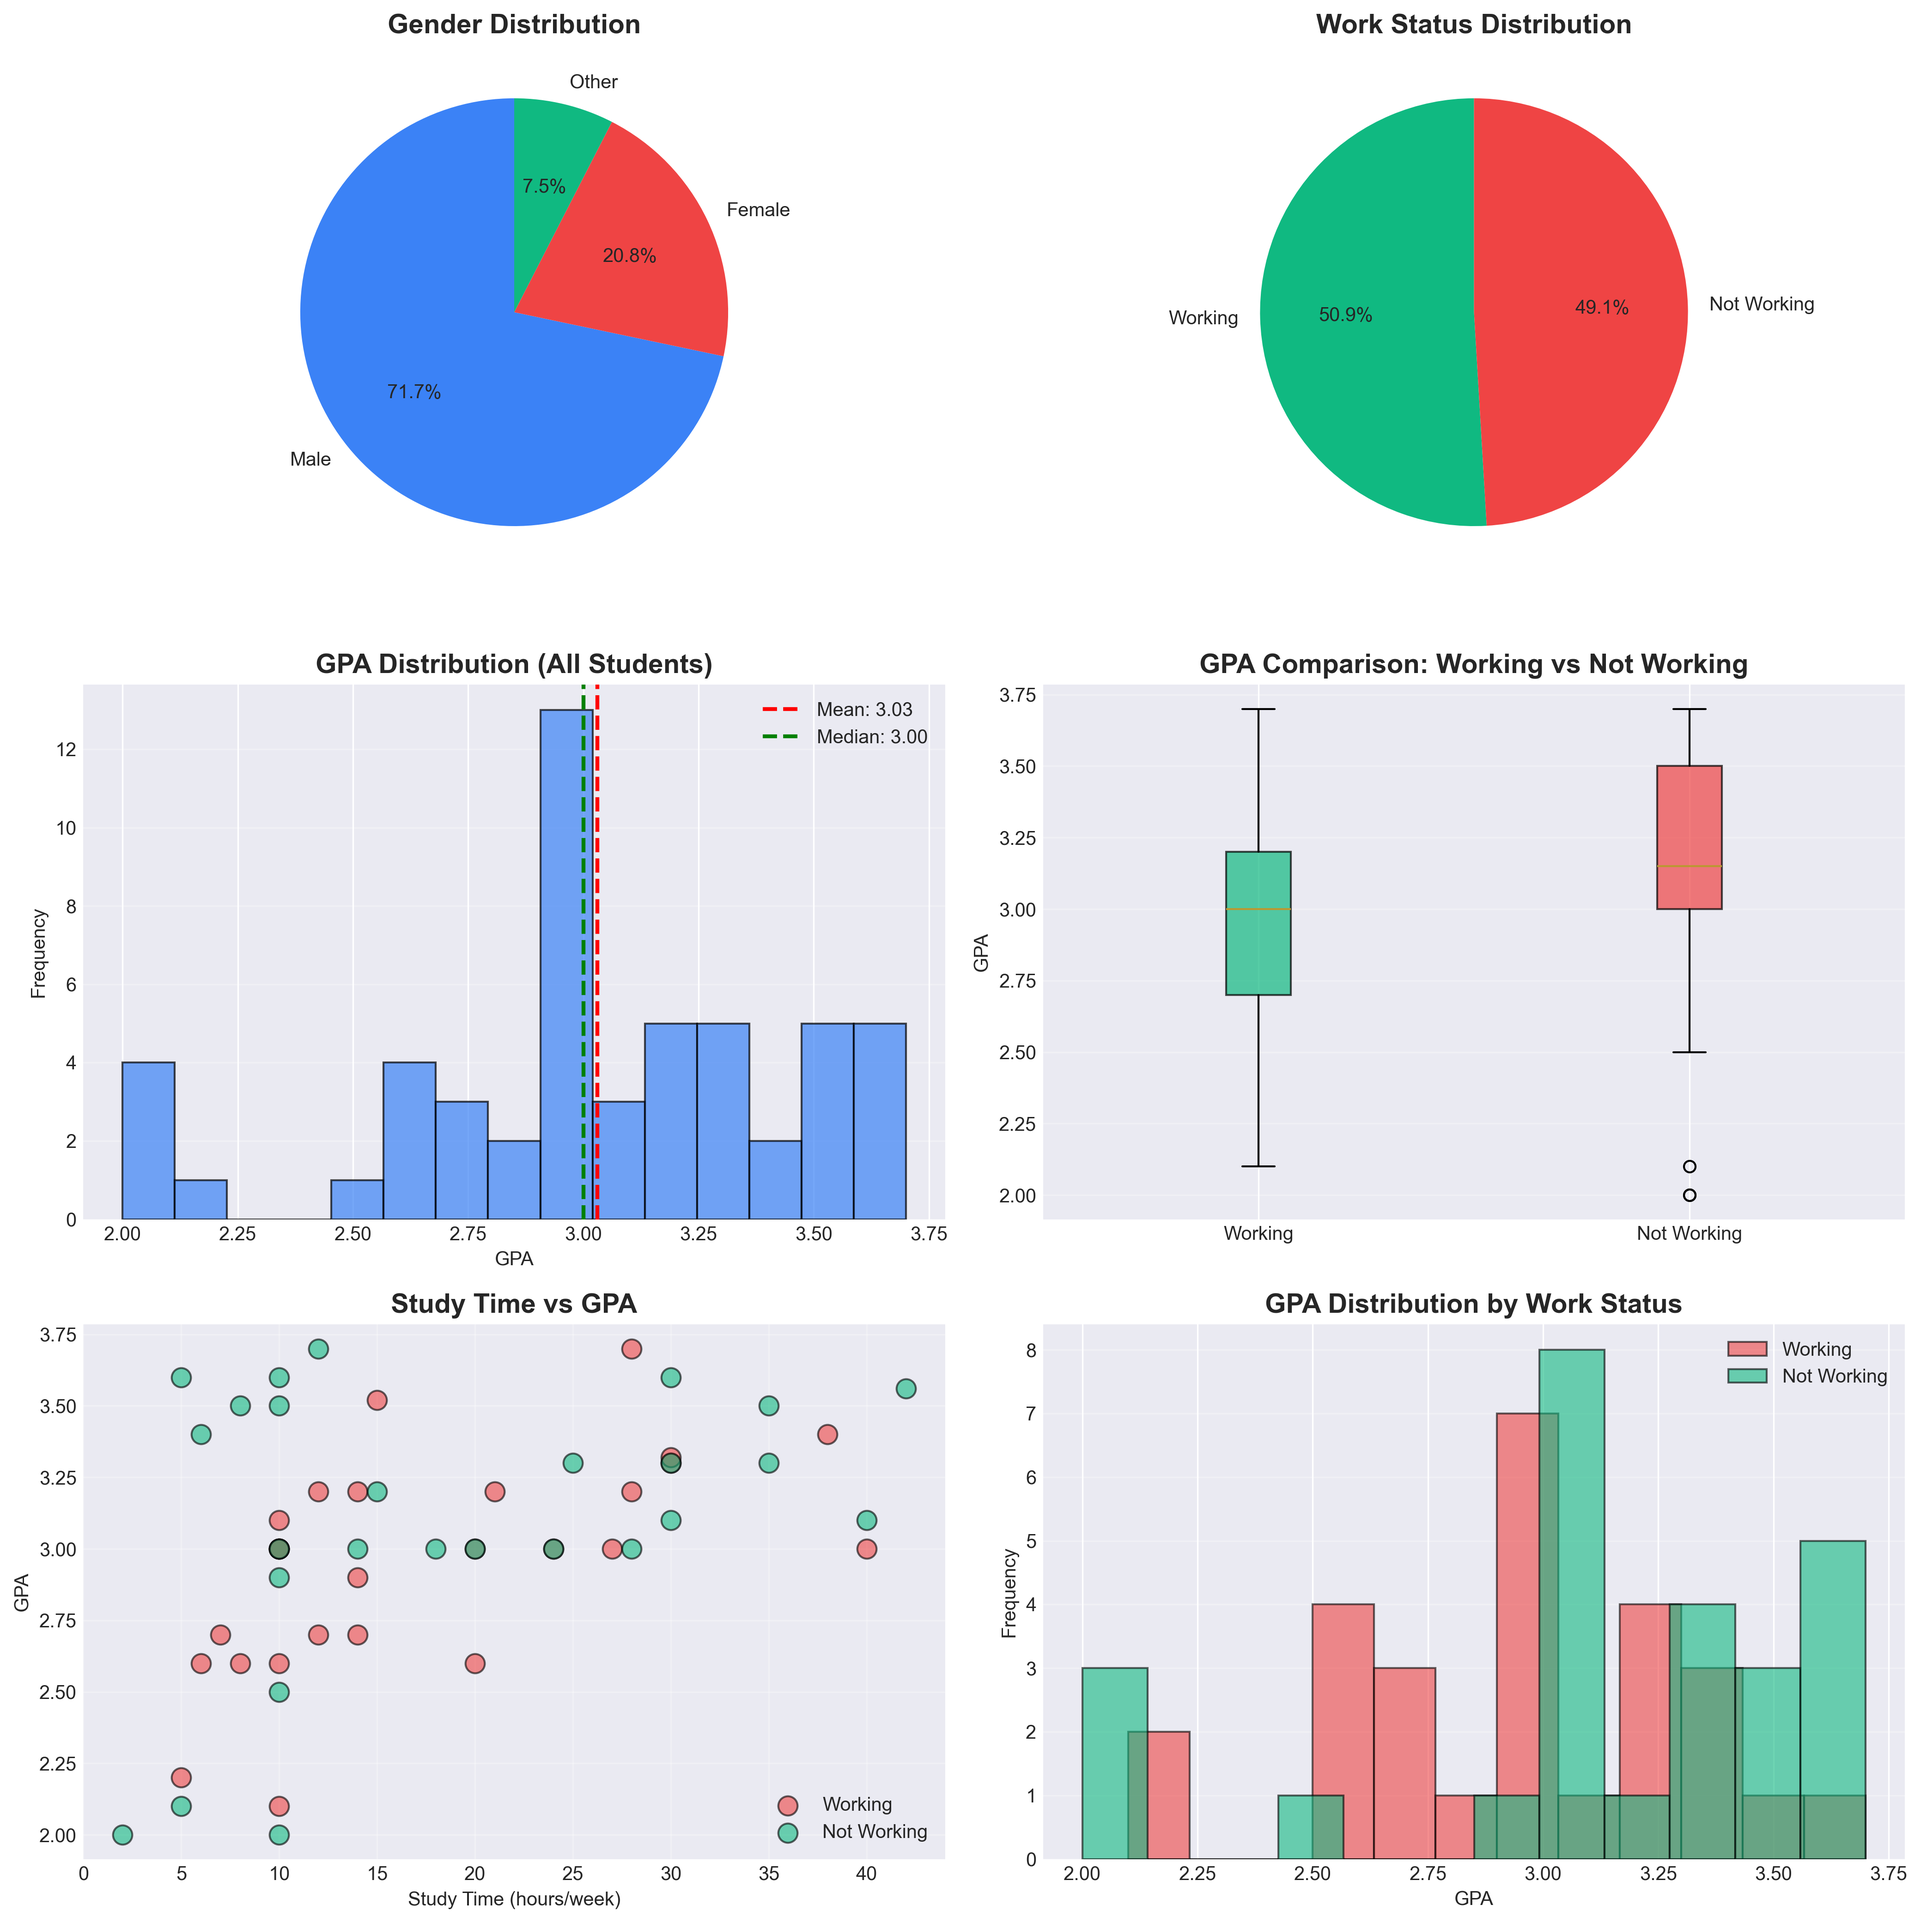
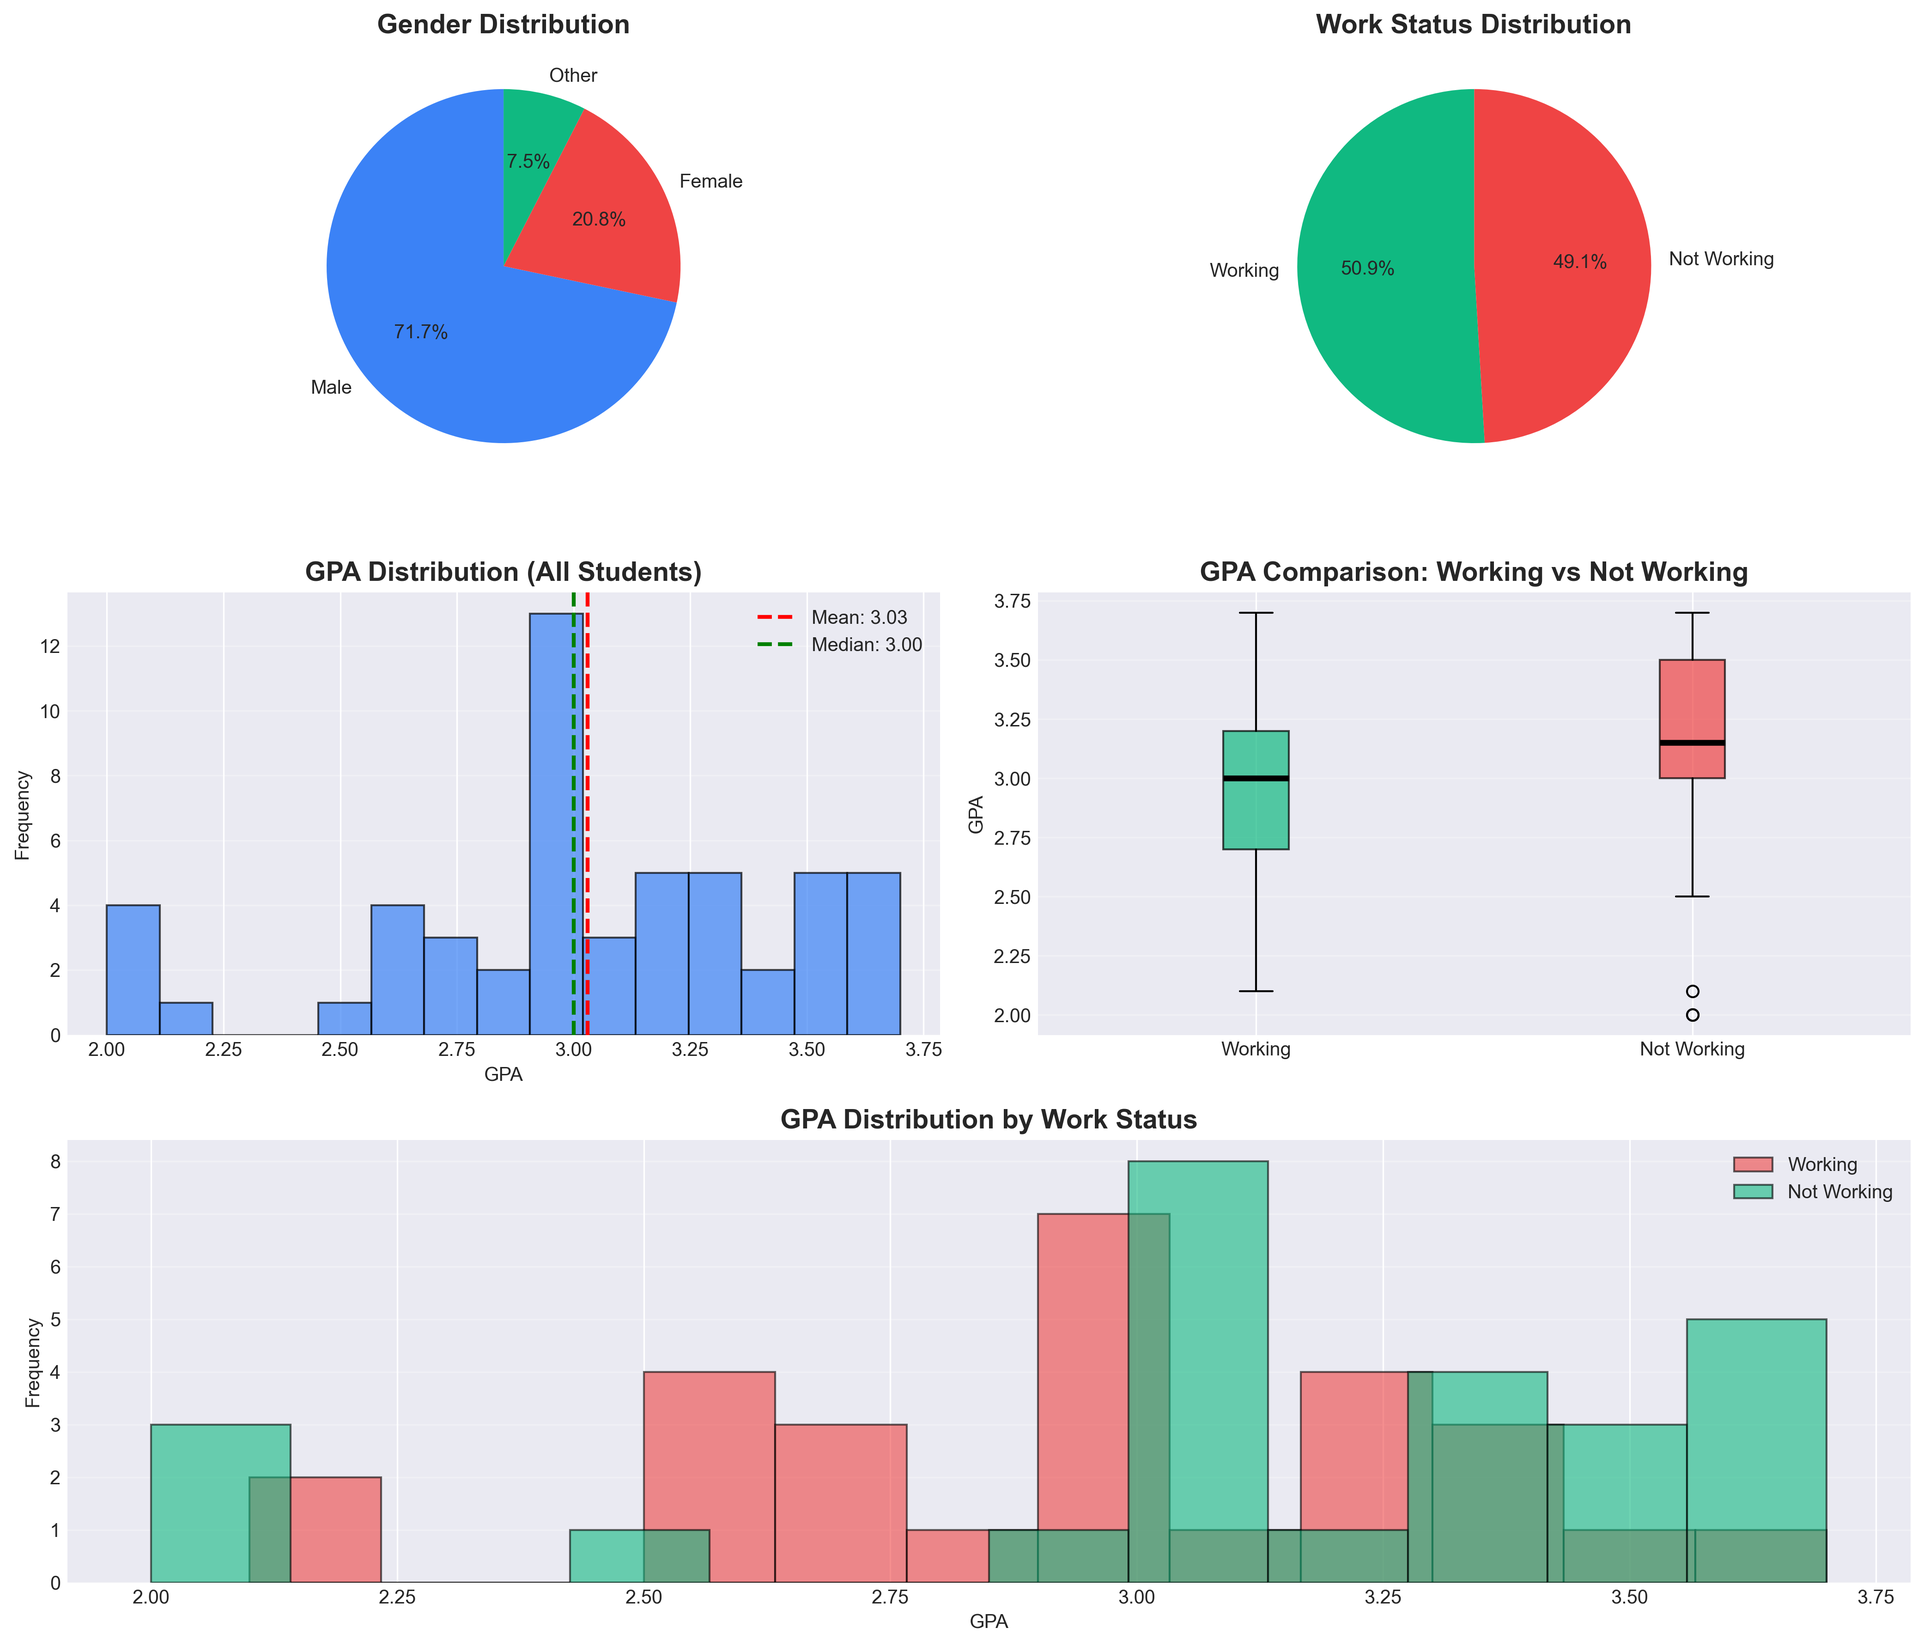
Add files via upload

diff --git a/descriptive_stats.py b/descriptive_stats.py
@@ -52,8 +52,7 @@ print(f"Median GPA (Not Working): {not_working['gpa'].median():.3f}")
 print(f"\nStd Dev (Working): {working['gpa'].std():.3f}")
 print(f"Std Dev (Not Working): {not_working['gpa'].std():.3f}")
 
-# Create figure with subplots, each subplot is 3x2
-fig = plt.figure(figsize=(14, 14))
+fig = plt.figure(figsize=(14, 12))
 
 # Pie Chart: Gender Distribution
 ax1 = plt.subplot(3, 2, 1)
@@ -86,7 +85,8 @@ ax3.grid(axis='y', alpha=0.3)
 # Box Plot: GPA Comparison
 ax4 = plt.subplot(3, 2, 4)
 data_to_plot = [working['gpa'].dropna(), not_working['gpa'].dropna()]
-bp = ax4.boxplot(data_to_plot, tick_labels=['Working', 'Not Working'], patch_artist=True)
+bp = ax4.boxplot(data_to_plot, tick_labels=['Working', 'Not Working'],
+                 patch_artist=True, medianprops=dict(color='black', linewidth=3))
 colors_box = ['#10b981', '#ef4444']
 for patch, color in zip(bp['boxes'], colors_box):
     patch.set_facecolor(color)
@@ -95,29 +95,15 @@ ax4.set_ylabel('GPA')
 ax4.set_title('GPA Comparison: Working vs Not Working', fontsize=14, fontweight='bold')
 ax4.grid(axis='y', alpha=0.3)
 
-# Scatter Plot: Study Time vs GPA
-ax5 = plt.subplot(3, 2, 5)
-working_data = df[df['has_work'] == True]
-not_working_data = df[df['has_work'] == False]
-ax5.scatter(working_data['study_time_hours'], working_data['gpa'],
-           alpha=0.6, s=100, c='#ef4444', label='Working', edgecolors='black')
-ax5.scatter(not_working_data['study_time_hours'], not_working_data['gpa'],
-           alpha=0.6, s=100, c='#10b981', label='Not Working', edgecolors='black')
-ax5.set_xlabel('Study Time (hours/week)')
-ax5.set_ylabel('GPA')
-ax5.set_title('Study Time vs GPA', fontsize=14, fontweight='bold')
-ax5.legend()
-ax5.grid(alpha=0.3)
-
 # Overlapping Histograms: GPA Distribution by Work Status
-ax6 = plt.subplot(3, 2, 6)
-ax6.hist(working['gpa'].dropna(), bins=12, alpha=0.6, label='Working', color='#ef4444', edgecolor='black')
-ax6.hist(not_working['gpa'].dropna(), bins=12, alpha=0.6, label='Not Working', color='#10b981', edgecolor='black')
-ax6.set_xlabel('GPA')
-ax6.set_ylabel('Frequency')
-ax6.set_title('GPA Distribution by Work Status', fontsize=14, fontweight='bold')
-ax6.legend()
-ax6.grid(axis='y', alpha=0.3)
+ax5 = plt.subplot(3, 1, 3)
+ax5.hist(working['gpa'].dropna(), bins=12, alpha=0.6, label='Working', color='#ef4444', edgecolor='black')
+ax5.hist(not_working['gpa'].dropna(), bins=12, alpha=0.6, label='Not Working', color='#10b981', edgecolor='black')
+ax5.set_xlabel('GPA')
+ax5.set_ylabel('Frequency')
+ax5.set_title('GPA Distribution by Work Status', fontsize=14, fontweight='bold')
+ax5.legend()
+ax5.grid(axis='y', alpha=0.3)
 
 plt.tight_layout()
 plt.savefig('images/student_work_analysis.png', dpi=300, bbox_inches='tight')
@@ -151,57 +137,29 @@ failed_by_work = df.groupby('has_work')['failed_course'].value_counts()
 print(failed_by_work)
 
 # DETAILED ANALYSIS
-# Create a new figure, each subplot is 2x2
-fig2 = plt.figure(figsize=(14, 10))
-
-# Violin Plot: GPA Distribution
-ax1 = plt.subplot(2, 2, 1)  # top-left
-ax1.violinplot([working['gpa'].dropna(), not_working['gpa'].dropna()],
-               showmeans=True, showmedians=True)
-ax1.set_xticks([1, 2])
-ax1.set_xticklabels(['Working', 'Not Working'])
-ax1.set_ylabel('GPA')
-ax1.set_title('GPA Distribution (Violin Plot)', fontweight='bold')
-ax1.grid(axis='y', alpha=0.3)
-
-# Scatter Plot: Work Time vs GPA
-ax2 = plt.subplot(2, 2, 2)  # top-right
-working_with_hours = working[working['work_time_hours'] > 0]
-ax2.scatter(working_with_hours['work_time_hours'], working_with_hours['gpa'],
-            alpha=0.6, s=100, c='#3b82f6', edgecolors='black')
-
-# Add regression line
-z = np.polyfit(working_with_hours['work_time_hours'].dropna(),
-               working_with_hours['gpa'].dropna(), 1)
-p = np.poly1d(z)
-ax2.plot(working_with_hours['work_time_hours'].sort_values(),
-         p(working_with_hours['work_time_hours'].sort_values()),
-         "r--", alpha=0.8, linewidth=2)
-
-ax2.set_xlabel('Work Time (hours/week)')
-ax2.set_ylabel('GPA')
-ax2.set_title('Work Time vs GPA (Working Students)', fontweight='bold')
-ax2.grid(alpha=0.3)
+# Create a new figure, each subplot is 1x2
+fig2 = plt.figure(figsize=(14, 6))
 
 # Bar Chart: GPA by Gender and Work Status
-ax3 = plt.subplot(2, 2, 3)  # bottom-left
+ax1 = plt.subplot(1, 2, 1)  # bottom-left
 gender_work_gpa = df.groupby(['gender', 'has_work'])['gpa'].mean().unstack()
-gender_work_gpa.plot(kind='bar', ax=ax3, color=['#ef4444', '#10b981'])
-ax3.set_xlabel('Gender')
-ax3.set_ylabel('Average GPA')
-ax3.set_title('Average GPA by Gender and Work Status', fontweight='bold')
-ax3.legend(['Not Working', 'Working'])
-ax3.set_xticklabels(ax3.get_xticklabels(), rotation=45)
-ax3.grid(axis='y', alpha=0.3)
+gender_work_gpa.plot(kind='bar', ax=ax1, color=['#ef4444', '#10b981'])
+ax1.set_xlabel('Gender')
+ax1.set_ylabel('Average GPA')
+ax1.set_title('Average GPA by Gender and Work Status', fontweight='bold')
+ax1.legend(['Not Working', 'Working'])
+ax1.set_xticklabels(ax1.get_xticklabels(), rotation=45)
+ax1.grid(axis='y', alpha=0.3)
 
 # Box Plot: Study Time Comparison
-ax4 = plt.subplot(2, 2, 4)  # bottom-right
-ax4.boxplot([working['study_time_hours'].dropna(),
+ax2 = plt.subplot(1, 2, 2)  # bottom-right
+ax2.boxplot([working['study_time_hours'].dropna(),
              not_working['study_time_hours'].dropna()],
-            tick_labels=['Working', 'Not Working'], patch_artist=True)
-ax4.set_ylabel('Study Time (hours/week)')
-ax4.set_title('Study Time Comparison', fontweight='bold')
-ax4.grid(axis='y', alpha=0.3)
+            tick_labels=['Working', 'Not Working'], patch_artist=True,
+            medianprops=dict(color='black', linewidth=3))
+ax2.set_ylabel('Study Time (hours/week)')
+ax2.set_title('Study Time Comparison', fontweight='bold')
+ax2.grid(axis='y', alpha=0.3)
 
 plt.tight_layout()
 plt.savefig('images/student_work_detailed_analysis.png', dpi=300, bbox_inches='tight')

diff --git a/hypothesis_testing.py b/hypothesis_testing.py
@@ -254,10 +254,10 @@ print(f"                (Working - Non-Working) lies between {ci_lower_diff_prop
 # Generate visualization for the hypothesis tests
 print("\nGenerating visualization plots...")
 
-fig = plt.figure(figsize=(16, 10))
+fig = plt.figure(figsize=(14, 10))
 
 # 1. Test for Population Mean (t-distribution)
-ax1 = plt.subplot(2, 3, 1)
+ax1 = plt.subplot(2, 2, 1)
 x = np.linspace(-4, 4, 1000)
 y = t.pdf(x, df_test)
 ax1.plot(x, y, 'b-', linewidth=2, label='t-distribution')
@@ -273,7 +273,7 @@ ax1.legend()
 ax1.grid(alpha=0.3)
 
 # 2. Test for Proportion (z-distribution)
-ax2 = plt.subplot(2, 3, 2)
+ax2 = plt.subplot(2, 2, 2)
 x = np.linspace(-4, 4, 1000)
 y = norm.pdf(x)
 ax2.plot(x, y, 'b-', linewidth=2, label='Normal distribution')
@@ -289,7 +289,7 @@ ax2.legend()
 ax2.grid(alpha=0.3)
 
 # 3. Test for Difference in Means
-ax3 = plt.subplot(2, 3, 3)
+ax3 = plt.subplot(2, 2, 3)
 x = np.linspace(-4, 4, 1000)
 y = t.pdf(x, df_diff)
 ax3.plot(x, y, 'b-', linewidth=2, label='t-distribution')
@@ -304,47 +304,29 @@ ax3.set_ylabel('Probability Density')
 ax3.legend()
 ax3.grid(alpha=0.3)
 
-# 4. Confidence Interval for Mean
-ax4 = plt.subplot(2, 3, 4)
-ax4.errorbar([0], [mean_all], yerr=[[mean_all - ci_lower], [ci_upper - mean_all]],
-             fmt='o', markersize=10, capsize=10, capthick=2, color='blue', linewidth=2)
-ax4.axhline(mu_0, color='red', linestyle='--', linewidth=2, label=f'H0: μ = {mu_0}')
-ax4.set_xlim(-0.5, 0.5)
-ax4.set_ylim(mean_all - 0.5, mean_all + 0.5)
-ax4.set_xticks([])
-ax4.set_ylabel('GPA')
-ax4.set_title(f'{int((1-alpha)*100)}% CI for Population Mean\n({ci_lower:.3f}, {ci_upper:.3f})', fontweight='bold')
+# 4. Test for Difference in Proportions
+ax4 = plt.subplot(2, 2, 4)
+x = np.linspace(-4, 4, 1000)
+y = norm.pdf(x)
+ax4.plot(x, y, 'b-', linewidth=2, label='Normal distribution')
+ax4.axvline(z_stat_prop, color='red', linestyle='--', linewidth=2, label=f'z-stat = {z_stat_prop:.3f}')
+ax4.axvline(-z_critical, color='green', linestyle='--', linewidth=1.5, label=f'Critical = ±{z_critical:.3f}')
+ax4.axvline(z_critical, color='green', linestyle='--', linewidth=1.5)
+ax4.fill_between(x[x < -z_critical], 0, norm.pdf(x[x < -z_critical]), alpha=0.3, color='red')
+ax4.fill_between(x[x > z_critical], 0, norm.pdf(x[x > z_critical]), alpha=0.3, color='red')
+ax4.set_title('Test for Difference in Proportions\n(Req 5)', fontweight='bold')
+ax4.set_xlabel('z-value')
+ax4.set_ylabel('Probability Density')
 ax4.legend()
-ax4.grid(axis='y', alpha=0.3)
+ax4.grid(alpha=0.3)
 
-# 5. Confidence Interval for Difference in Means
-ax5 = plt.subplot(2, 3, 5)
-means = [mean1, mean2]
-labels = ['Working', 'Not Working']
-colors = ['#ef4444', '#10b981']
-bars = ax5.bar(labels, means, color=colors, alpha=0.7, edgecolor='black', linewidth=2)
-ax5.errorbar(labels, means, yerr=[std1/np.sqrt(n1), std2/np.sqrt(n2)],
-             fmt='none', capsize=10, capthick=2, color='black', linewidth=2)
-ax5.set_ylabel('Mean GPA')
-ax5.set_title('Mean GPA Comparison with Error Bars', fontweight='bold')
-ax5.grid(axis='y', alpha=0.3)
-
-# 6. Proportions Comparison
-ax6 = plt.subplot(2, 3, 6)
-props = [p1_hat, p2_hat]
-bars = ax6.bar(labels, props, color=colors, alpha=0.7, edgecolor='black', linewidth=2)
-ax6.errorbar(labels, props, yerr=[se_diff_prop_ci, se_diff_prop_ci],
-             fmt='none', capsize=10, capthick=2, color='black', linewidth=2)
-ax6.set_ylabel('Proportion (GPA ≥ 3.0)')
-ax6.set_title('Proportion Comparison with Error Bars', fontweight='bold')
-ax6.set_ylim(0, 1)
-ax6.grid(axis='y', alpha=0.3)
-
-plt.tight_layout()
-plt.show()
+plt.tight_layout(pad=3.0)
+plt.suptitle("Hypothesis Test Visualizations", fontsize=16, fontweight='bold', y=1.02)
+plt.subplots_adjust(top=0.9)
 plt.savefig('images/hypothesis_tests_visualization.png', dpi=300, bbox_inches='tight')
 print("\nVisualization saved as 'hypothesis_tests_visualization.png'")
 
+plt.show()
 # SUMMARY TABLE
 print("\n" + "="*90)
 print("SUMMARY OF ALL HYPOTHESIS TESTS")
